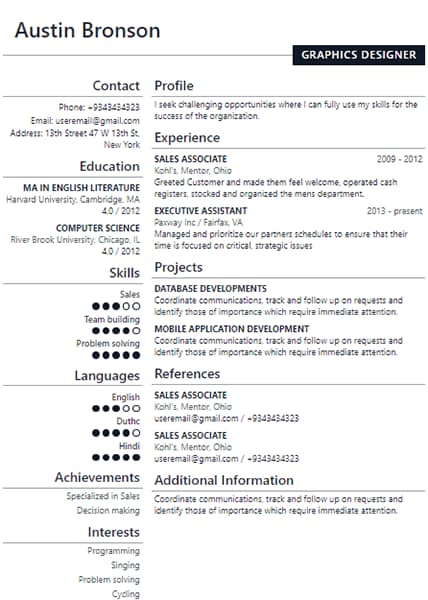
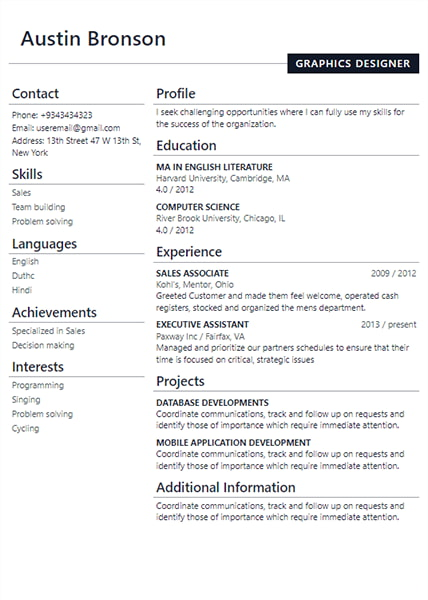
fix: update Thumbnail of 14

Changed region(s): [[0.0, 0.03, 1.0, 1.0]]

diff --git a/pdf-templates/src/templates/P.jsx b/pdf-templates/src/templates/P.jsx
@@ -17,28 +17,6 @@ import SimpleList from './shared/SimpleList'
 import { CommonTile } from './Q'
 import InfoRow from './shared/InfoRow'
 
-const RatingList = ({ items }) => {
-  return (
-    <div className='space-y-1 mt-2'>
-      {items.map((item, i) => (
-        <div key={i} className='flex items-end justify-between'>
-          <p className='text-xs font-semibold text-neutral'>{item.name}</p>
-          <div className='flex gap-1'>
-            {Array.from({ length: 5 }, (_, k) => k + 1).map((x) => (
-              <div
-                key={x}
-                className={`h-2 w-2 rounded-full border-primary ${
-                  x > item.level ? 'border-2 opacity-60' : 'bg-primary'
-                }`}
-              />
-            ))}
-          </div>
-        </div>
-      ))}
-    </div>
-  )
-}
-
 const Header = ({ children }) => (
   <div className=''>
     <h2 className='heading text-neutral font-semibold'>{children}</h2>
@@ -93,7 +71,7 @@ const TemplateP = ({ profile }) => {
           {(title, items) => (
             <div>
               <Header>{title}</Header>
-              <RatingList items={items} />
+              <SimpleList col='grid-cols-1 mt-1' items={items} />
             </div>
           )}
         </Skills>
@@ -102,7 +80,7 @@ const TemplateP = ({ profile }) => {
           {(title, items) => (
             <div>
               <Header>{title}</Header>
-              <RatingList items={items} />
+              <SimpleList col='grid-cols-1 mt-1' items={items} />
             </div>
           )}
         </Languages>
@@ -153,7 +131,6 @@ const TemplateP = ({ profile }) => {
             </section>
           )}
         </Education>
-
 
         <Experience experiences={profile.experiences}>
           {(title, experiences) => (

diff --git a/pdf-templates/src/templates/dummy.js b/pdf-templates/src/templates/dummy.js
@@ -111,5 +111,5 @@ export const dummyProfile = {
   ],
   objective: 'I seek challenging opportunities where I can fully use my skills for the success of the organization.',
   additionalInformation:
-    'Coordinate communications, track and follow up on requests and identify those of importance which require immediate attention. Coordinate communications, track and follow up on requests and identify those of importance which require immediate attention. Coordinate communications, track and follow up on requests and identify those of importance which require immediate attention. Coordinate communications, track and follow up on requests and identify those of importance which require immediate attention. Coordinate communications, track and follow up on requests and identify those of importance which require immediate attention. Coordinate communications, track and follow up on requests and identify those of importance which require immediate attention.',
+    'Coordinate communications, track and follow up on requests and identify those of importance which require immediate attention.',
 }

diff --git a/components/ThemeSelectorBottomBar.js b/components/ThemeSelectorBottomBar.js
@@ -9,6 +9,7 @@ const Loaderbar = () => {
       px={8}
       justifyContent='space-between'
       position='absolute'
+      _dark={{ bg: 'gray.500' }}
       bg='white'
       top={0}
       bottom={0}
@@ -28,7 +29,7 @@ const ThemeSelectorBottomBar = ({ onSelect, themes, onShowPicker, isLoading }) =
       <HStack
         space={2}
         py={2}
-        px={8}
+        px={6}
         justifyContent='space-between'
         _light={{ bg: themeColors.light.bg }}
         _dark={{ bg: themeColors.dark.bg }}
